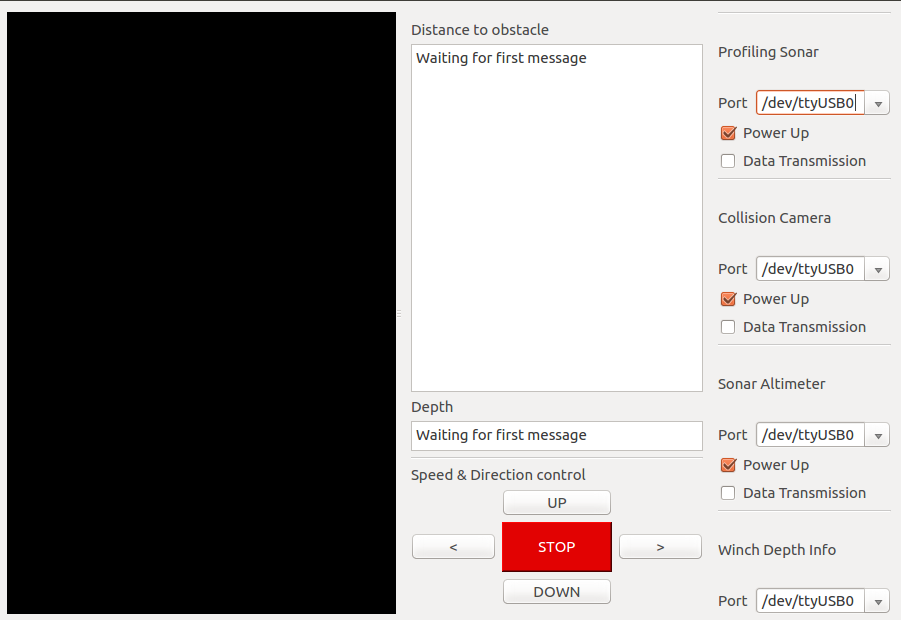
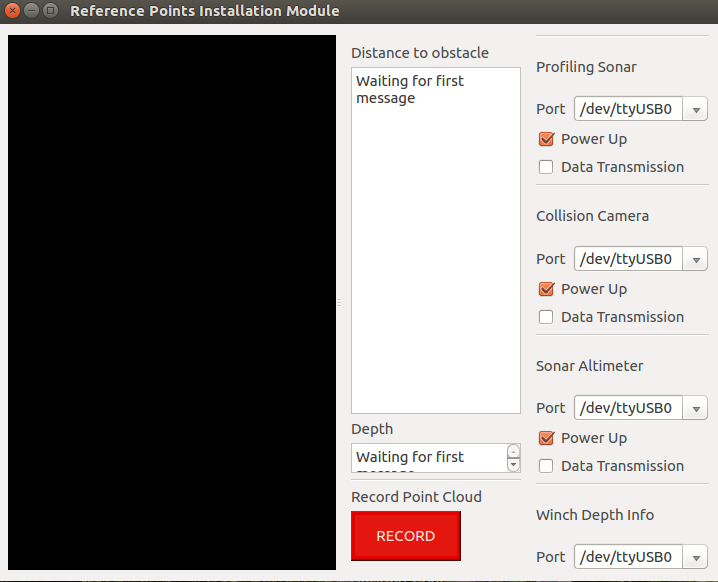
added record button documentation

diff --git a/searchindex.js b/searchindex.js
@@ -1,1 +1,1 @@
-Search.setIndex({docnames:["GUI_Documentation","index"],envversion:52,filenames:["GUI_Documentation.rst","index.rst"],objects:{"":{rst2pdf:[1,3,0,"-"]},"rpim.Joystick_thread":{is_locked:[0,1,1,""],mutex:[0,1,1,""],run:[0,2,1,""],signal:[0,1,1,""]},"rpim.ParameterServer_Params":{profiler_client:[0,1,1,""],run:[0,2,1,""],valeport_altimeter_client:[0,1,1,""]},"rpim.SDS_Params":{parse_params:[0,2,1,""],send:[0,2,1,""]},"rpim.Window":{AltimeterPowerCheckbox:[0,2,1,""],CameraPowerCheckbox:[0,2,1,""],ComboAltimeter_Port_Activated:[0,2,1,""],ComboAltimeter_Pow_Activated:[0,2,1,""],ComboBaudActivated:[0,2,1,""],ComboCam_Pow_Activated:[0,2,1,""],ComboProfiler_Port_Activated:[0,2,1,""],ComboProfiler_Pow_Activated:[0,2,1,""],ProfilerPowerCheckbox:[0,2,1,""],btnDOWN:[0,1,1,""],btnDOWN_clicked:[0,2,1,""],btnDOWNpcas:[0,1,1,""],btnLEFT:[0,1,1,""],btnLEFT_clicked:[0,2,1,""],btnLEFTpcas:[0,1,1,""],btnRGT:[0,1,1,""],btnRGT_clicked:[0,2,1,""],btnRGTpcas:[0,1,1,""],btnUP:[0,1,1,""],btnUP_clicked:[0,2,1,""],btnUPpcas:[0,1,1,""],guimode:[0,1,1,""],imgwin:[0,1,1,""],initUI:[0,2,1,""],jb:[0,1,1,""],joystick_changed:[0,2,1,""],jthread:[0,1,1,""],lblgui:[0,1,1,""],lblnav:[0,1,1,""],lblnavpcas:[0,1,1,""],navmode:[0,1,1,""],pcas:[0,1,1,""],update_ROV_image:[0,2,1,""],update_collisioncam_image:[0,2,1,""],update_joystick:[0,2,1,""],update_string:[0,2,1,""],win:[0,1,1,""]},"rpim.altimeter_subscriber":{altimeter_callback:[0,2,1,""],subscribe:[0,2,1,""]},"rpim.image_converter":{callback:[0,2,1,""],cv_image:[0,1,1,""],image_sub:[0,1,1,""],newcameraimage:[0,1,1,""],subscribe:[0,2,1,""]},rpim:{Joystick_thread:[0,0,1,""],ParameterServer_Params:[0,0,1,""],SDS_Params:[0,0,1,""],Window:[0,0,1,""],altimeter_subscriber:[0,0,1,""],image_converter:[0,0,1,""]}},objnames:{"0":["py","class","Python class"],"1":["py","data","Python data"],"2":["py","method","Python method"],"3":["py","module","Python module"]},objtypes:{"0":"py:class","1":"py:data","2":"py:method","3":"py:module"},terms:{"421c365bd9ff1f717815a3895523baeeb01fa116":0,"case":0,"class":1,"default":0,"final":0,"float":[],"function":0,"import":0,"new":0,"return":0,"switch":1,"try":0,"while":0,And:0,For:0,ROS:1,SDS:0,The:[],Then:0,There:0,With:0,abl:0,about:0,accept:0,access:0,accomplish:0,account:0,activ:0,add:[],added:0,addit:0,addition:[],additionn:0,adv:0,against:0,all:0,allow:0,also:0,altern:0,although:0,altimet:1,altimeter_callback:0,altimeter_subscrib:0,altimeterpowercheckbox:0,anti:0,anticollis:0,apart:0,appear:0,apt:0,area:[],arg:[],argument:0,armhf:[],arriv:0,aspect:0,associ:[],atribut:0,attribut:0,automat:0,autonom:0,auv:0,avail:0,avoid:0,axi:0,back:0,base0:0,bash:0,bashrc:0,basic:0,baud:[],baudrat:0,baudtxt:0,becaus:0,beed:0,been:0,befor:0,being:0,below:0,between:0,binari:0,bind:0,bitstr:0,bluerov2:0,bluerov_ros_playground:0,board:0,both:0,bowtech:0,box:0,btndown:0,btndown_click:0,btndownpca:0,btnleft:0,btnleft_click:0,btnleftpca:0,btnrgt:0,btnrgt_click:0,btnrgtpca:0,btnup:0,btnup_click:0,btnuppca:0,build:[],built:0,button:1,call:0,callback:0,camera:0,camerapowercheckbox:0,can:0,cannot:0,capabl:[],catkin:0,catkin_mak:0,catkin_w:0,cctv:0,certain:0,chang:0,channel:0,checkbox:0,checkout:[],choos:0,click:0,client:0,clockwis:0,clone:0,cloud:0,code:1,collect:0,collis:0,color:[],com:0,combo:0,comboaltimeter_data_activ:[],comboaltimeter_port_activ:0,comboaltimeter_pow_activ:0,combobaudactiv:0,combocam_pow_activ:0,comboprofiler_data_activ:[],comboprofiler_port_activ:0,comboprofiler_pow_activ:0,come:0,command:0,commun:0,compil:0,compon:0,comput:1,concurr:0,configur:1,connect:0,contain:0,content:1,control:0,conveni:0,convers:0,convert:0,coordin:[],core:0,correct:0,creat:0,current:[],cv_bridg:0,cv_imag:0,cvbridg:0,data:1,datainput:[],datastr:[],date:0,deb:0,debian:0,defin:0,definit:1,depend:1,deploy:0,depth:0,design:0,desktop:0,detail:0,determin:0,dev:0,devel:0,develop:0,devic:1,differ:0,dinam:0,direct:0,directori:0,disabl:0,displai:1,distanc:0,distribut:0,doe:1,doesn:0,dof:0,doing:0,don:0,done:0,down:0,download:[],draw:[],drawn:0,driver:0,dure:0,dynam:1,each:0,easi:0,easier:0,easili:0,echo:0,edu:0,element:0,embed:0,emit:0,enabl:0,enter:0,environ:[],essenti:0,etc:0,event:[],everi:0,everytim:0,exampl:0,execut:0,experi:0,explan:1,extern:0,first:0,fixat:0,folder:0,follow:0,foo:[],form:0,format:0,frame:0,freeglut3:0,freez:0,frequent:0,from:0,fron:0,front:0,fuction:[],full:0,funcion:0,gener:0,geo:0,get:0,git:0,github:0,glscatterplotitem:0,glviewwidget:0,graphic:0,graphicslayoutwidget:0,gscam:0,gstreamer0:0,gstreamer:0,guid:0,guimod:0,handl:0,hardwar:0,has:0,have:0,here:0,hkp:0,http:0,imag:1,image_convert:0,image_sub:0,imgtop:0,imgwin:0,imutil:0,includ:0,index:[0,1],indic:0,info:0,inform:1,ing:[],inherit:0,init:0,initi:[],initui:0,input:0,inspect:[],instal:1,instanc:0,instruct:0,intefac:0,integr:1,interfac:0,introduct:1,involv:0,is_lock:0,issu:0,its:0,joystick:1,joystick_chang:0,joystick_thread:0,jthread:0,just:0,keyserv:0,kinet:1,kwd:[],label:0,last:0,latest:0,launch:1,lblgui:0,lblnav:0,lblnavpca:0,left:0,libasound2:0,libavcodec:0,libavformat:0,libavutil:0,libdrm:0,libgl1:0,libglu1:0,libgstream:0,libgstreamer0:0,librari:0,libraw1394:0,libswscal:0,libudev:0,libxmu:0,libxxf86vm:0,like:0,line:0,lsb_releas:0,main:0,make:0,manag:0,mani:0,manoeuvr:0,matplotlib:0,matrix:0,meant:0,measur:0,mention:0,mesa:0,mesaru:[],messag:0,method:1,miss:0,mit:0,mkdir:0,mode:0,modul:1,modular:0,monitor:0,more:0,mous:[],mousepresev:[],mousepressev:[],move:0,multivers:0,must:0,mutex:0,myglview:0,name:0,navig:1,navmod:0,necessari:0,need:0,net:0,never:0,newcameraimag:0,newpcsign:[],newscatt:[],newstr:[],none:[],normal:0,normalis:[],note:0,notic:0,notifi:0,now:0,nowadai:[],numpi:0,oalvarez:[],object:[],obstabl:0,obstacl:0,obtain:0,off:0,olayasturia:0,one:0,onli:0,onlin:0,open:0,opencv:0,oper:0,opt:0,optim:0,order:0,org:0,origin:[],other:0,over:0,overun:0,overwrit:[],overwriten:[],own:0,packag:[],page:1,paintgl:[],param:0,paramet:1,parameterserver_param:0,parent:[],pars:0,parse_param:0,pass:0,path:[],patrickelectr:0,pca:[],percept:0,personalis:[],pgp:0,physic:0,pictur:0,pip:0,place:0,plaintext:0,pleas:0,plot:[],plugin:0,point:[],pointcloud:[],pointcloud_pc:[],pool:0,port:0,pose:1,pose_callback:[],pose_subscrib:[],pose_world_fram:[],posit:0,power:0,press:0,previou:0,previous:0,proceed:0,process:1,profil:1,profiler_cli:0,profilerpowercheckbox:0,profilingsonar_pc:[],project:0,provid:0,ps_callback:[],publish:0,pyqt:0,pyqtgraph:0,pyseri:0,python:0,qt4:0,qtgui:0,qthread:0,qwidget:0,raspberri:[],read:0,readabl:0,readi:0,real:0,receiv:0,recommend:0,reconfigur:0,recv:0,refer:[],referenc:0,refresh:[],region:[],relat:0,render:[],requir:0,requisit:0,resiz:0,restrict:0,result:[],right:0,robot:0,ros:0,rosdep:[],rosinstal:0,roslaunch:0,rotat:0,rov:[],rpim:0,rqt:0,run:0,rviz:0,same:0,save:0,scan:0,scatter:[],scene:0,scipi:0,screen:0,script:[],sds_param:0,search:1,sec:0,second:0,see:0,seen:0,select:0,send:0,sensor:0,sensor_msg:0,sent:0,separ:0,seri:0,serial:1,server:0,session:0,setup:[],shaft:0,shell:0,should:0,show:0,shown:0,signal1:0,signal2:[],signal:0,similar:0,simul:0,sinc:0,sincl:0,sks:0,slot:0,softwar:0,some:0,sonar:1,sourc:[],special:1,src:0,stamp:0,stams_gui:0,start:0,state:0,step:0,store:0,string:0,structur:0,sub:0,subfold:0,submodul:0,subscrib:0,substitut:0,substrib:0,sudo:0,suppli:0,sure:0,system:0,tab:[],tabl:0,task:0,teleoper:0,termin:0,text:0,than:[],thei:0,them:0,thi:0,those:0,thread:0,three:0,through:0,thruster:0,thrusther:0,thu:0,time:0,tmux:0,tool:0,topic:0,trajectori:0,translat:0,transmiss:0,transmit:0,tree:0,tritech:0,tritech_profil:0,ttyusb1:0,tutori:1,two:0,type:0,ubuntu:[],uc3m:[],udo:[],ultrason:[],understand:1,underwat:0,univers:0,unloc:0,unselect:0,updat:0,update_collisioncam_imag:0,update_joystick:0,update_pose_plot:[],update_ps_pointcloud:[],update_rov_imag:0,update_str:0,use:0,used:0,useful:0,user:0,using:0,uwsim:0,valeport:1,valeport_altimet:0,valeport_altimeter_cli:0,valiabl:0,valu:0,vari:[],variabl:0,variou:0,veloc:0,veri:0,via:0,viewer:[],visit:0,visual:0,wall:0,want:0,websit:0,what:1,when:0,where:0,which:1,whinch:0,widget:0,wiki:0,win:0,winch:0,window:1,wirelin:0,work:0,workspac:[],would:0,writ:[],write:0,wstool:0,yet:0,you:0,your:1},titles:["1. Introduction","Welcome to STAMS GUI\u2019s documentation!"],titleterms:{"class":0,"switch":0,ROS:0,The:0,altimet:0,build:0,button:0,code:0,comput:0,configur:0,data:0,definit:0,depend:0,devic:0,displai:0,document:1,doe:0,download:0,dynam:0,environ:0,explan:0,gui:[0,1],imag:0,indic:1,inform:0,initi:0,inspect:0,instal:0,integr:0,introduct:0,joystick:0,kei:0,kinet:0,launch:0,list:0,method:0,modul:0,navig:0,note:[],packag:0,paramet:0,pca:0,point:0,pose:0,prepar:0,process:0,profil:0,python:[],refer:0,repositori:0,rosdep:0,rov:0,serial:0,set:0,setup:0,sonar:0,sourc:0,special:0,stam:[0,1],tab:0,tabl:1,tutori:0,ubuntu:0,ultrason:0,understand:0,valeport:0,welcom:1,what:0,which:0,window:0,work:[],workspac:0,your:0}})
+Search.setIndex({docnames:["GUI_Documentation","index"],envversion:52,filenames:["GUI_Documentation.rst","index.rst"],objects:{"":{rst2pdf:[1,3,0,"-"]},"rpim.Joystick_thread":{is_locked:[0,1,1,""],mutex:[0,1,1,""],run:[0,2,1,""],signal:[0,1,1,""]},"rpim.ParameterServer_Params":{profiler_client:[0,1,1,""],run:[0,2,1,""],valeport_altimeter_client:[0,1,1,""]},"rpim.SDS_Params":{parse_params:[0,2,1,""],send:[0,2,1,""]},"rpim.Window":{AltimeterPowerCheckbox:[0,2,1,""],CameraPowerCheckbox:[0,2,1,""],ComboAltimeter_Port_Activated:[0,2,1,""],ComboAltimeter_Pow_Activated:[0,2,1,""],ComboBaudActivated:[0,2,1,""],ComboCam_Pow_Activated:[0,2,1,""],ComboProfiler_Port_Activated:[0,2,1,""],ComboProfiler_Pow_Activated:[0,2,1,""],ProfilerPowerCheckbox:[0,2,1,""],btnDOWN:[0,1,1,""],btnDOWN_clicked:[0,2,1,""],btnDOWNpcas:[0,1,1,""],btnLEFT:[0,1,1,""],btnLEFT_clicked:[0,2,1,""],btnLEFTpcas:[0,1,1,""],btnRGT:[0,1,1,""],btnRGT_clicked:[0,2,1,""],btnRGTpcas:[0,1,1,""],btnUP:[0,1,1,""],btnUP_clicked:[0,2,1,""],btnUPpcas:[0,1,1,""],guimode:[0,1,1,""],imgwin:[0,1,1,""],initUI:[0,2,1,""],jb:[0,1,1,""],joystick_changed:[0,2,1,""],jthread:[0,1,1,""],lblgui:[0,1,1,""],lblnav:[0,1,1,""],lblnavpcas:[0,1,1,""],navmode:[0,1,1,""],pcas:[0,1,1,""],update_ROV_image:[0,2,1,""],update_collisioncam_image:[0,2,1,""],update_joystick:[0,2,1,""],update_string:[0,2,1,""],win:[0,1,1,""]},"rpim.altimeter_subscriber":{altimeter_callback:[0,2,1,""],subscribe:[0,2,1,""]},"rpim.image_converter":{callback:[0,2,1,""],cv_image:[0,1,1,""],image_sub:[0,1,1,""],newcameraimage:[0,1,1,""],subscribe:[0,2,1,""]},rpim:{Joystick_thread:[0,0,1,""],ParameterServer_Params:[0,0,1,""],SDS_Params:[0,0,1,""],Window:[0,0,1,""],altimeter_subscriber:[0,0,1,""],image_converter:[0,0,1,""]}},objnames:{"0":["py","class","Python class"],"1":["py","data","Python data"],"2":["py","method","Python method"],"3":["py","module","Python module"]},objtypes:{"0":"py:class","1":"py:data","2":"py:method","3":"py:module"},terms:{"421c365bd9ff1f717815a3895523baeeb01fa116":0,"case":0,"class":1,"default":0,"final":0,"float":[],"function":0,"import":0,"new":0,"return":0,"switch":1,"try":0,"while":0,And:0,For:0,NOT:0,ROS:1,SDS:0,The:[],Then:0,There:0,With:0,abl:0,about:0,accept:0,access:0,accomplish:0,accord:0,account:0,activ:0,add:[],added:0,addit:0,addition:[],additionn:0,adv:0,after:0,against:0,all:0,allow:0,also:0,altern:0,although:0,altimet:1,altimeter_callback:0,altimeter_subscrib:0,altimeterpowercheckbox:0,anti:0,anticollis:0,apart:0,appear:0,apt:0,area:[],arg:[],argument:0,armhf:[],arriv:0,aspect:0,associ:[],atribut:0,attribut:0,automat:0,autonom:0,auv:0,avail:0,avoid:[],axi:0,back:0,base0:0,bash:0,bashrc:0,basic:0,baud:[],baudrat:0,baudtxt:0,becaus:0,beed:0,been:0,befor:0,being:0,below:0,between:0,binari:0,bind:0,bitstr:0,bluerov2:0,bluerov_ros_playground:0,board:0,both:0,bowtech:0,box:0,btndown:0,btndown_click:0,btndownpca:0,btnleft:0,btnleft_click:0,btnleftpca:0,btnrgt:0,btnrgt_click:0,btnrgtpca:0,btnup:0,btnup_click:0,btnuppca:0,build:[],built:0,button:1,call:0,callback:0,camera:[],camerapowercheckbox:0,can:0,cannot:0,capabl:0,catkin:0,catkin_mak:0,catkin_w:0,cctv:0,center:[],certain:0,chang:0,channel:0,checkbox:0,checkout:[],choos:0,click:0,client:0,clockwis:0,clone:0,cloud:0,cloudcompar:[],cloudcompare_:0,code:1,collect:0,collis:[],color:[],com:0,combo:0,comboaltimeter_data_activ:[],comboaltimeter_port_activ:0,comboaltimeter_pow_activ:0,combobaudactiv:0,combocam_pow_activ:0,comboprofiler_data_activ:[],comboprofiler_port_activ:0,comboprofiler_pow_activ:0,come:0,command:0,commun:0,compil:0,compon:0,comput:1,concurr:0,configur:1,connect:0,contain:0,content:1,control:0,conveni:0,convers:0,convert:0,coordin:[],core:0,correct:0,creat:0,current:0,cv_bridg:0,cv_imag:0,cvbridg:0,danielgm:[],data:1,datainput:[],datastr:[],date:0,deb:0,debian:0,defin:0,definit:1,depend:1,deploy:0,depth:0,design:0,desktop:0,detail:0,determin:0,dev:0,devel:0,develop:0,devic:1,differ:0,dinam:0,direct:0,directori:0,disabl:0,displai:1,displayin:0,distanc:0,distribut:0,doe:1,doesn:0,dof:0,doing:0,don:0,done:0,down:0,download:[],draw:[],drawn:0,driver:0,dure:0,dynam:1,each:0,easi:0,easier:0,easili:0,echo:0,edu:0,element:0,embed:0,emit:0,enabl:0,enter:0,environ:[],essenti:0,etc:0,event:[],everi:0,everytim:0,exampl:0,execut:0,experi:0,explan:1,extern:0,file:0,first:0,fixat:0,folder:0,follow:0,foo:[],form:0,format:0,frame:0,freeglut3:0,freez:0,frequent:0,from:0,fron:0,front:0,fuction:[],full:0,funcion:0,gener:0,geo:0,get:0,git:0,github:0,glscatterplotitem:0,glviewwidget:0,graphic:0,graphicslayoutwidget:0,gscam:0,gstreamer0:0,gstreamer:0,guid:0,guimod:0,handl:0,hardwar:0,has:0,have:0,here:0,hkp:0,http:0,imag:1,image_convert:0,image_sub:0,imgtop:0,imgwin:0,implement:0,imutil:0,includ:0,index:[0,1],indic:0,info:0,inform:1,ing:[],inherit:0,init:0,initi:[],initui:0,input:0,inspect:[],instal:1,instanc:0,instruct:0,intefac:0,integr:1,interfac:0,introduct:1,involv:0,is_lock:0,issu:0,its:0,joystick:1,joystick_chang:0,joystick_thread:0,jthread:0,just:0,keyserv:0,kinet:1,kwd:[],label:0,last:0,latest:0,latter:0,launch:1,lblgui:0,lblnav:0,lblnavpca:0,left:0,libasound2:0,libavcodec:0,libavformat:0,libavutil:0,libdrm:0,libgl1:0,libglu1:0,libgstream:0,libgstreamer0:0,librari:0,libraw1394:0,libswscal:0,libudev:0,libxmu:0,libxxf86vm:0,like:0,line:0,lsb_releas:0,main:0,make:0,manag:0,mani:0,manoeuvr:0,matplotlib:0,matrix:0,mean:0,meant:0,measur:0,mention:0,mesa:0,mesaru:[],messag:0,method:1,miss:0,mit:0,mkdir:0,mode:0,modul:1,modular:0,monitor:0,more:0,mous:[],mousepresev:[],mousepressev:[],move:0,multivers:0,must:0,mutex:0,myglview:0,name:0,navig:1,navmod:0,necessari:0,need:0,net:0,never:0,newcameraimag:0,newpcsign:[],newscatt:[],newstr:[],none:[],normal:0,normalis:[],note:0,notic:0,notifi:0,now:0,nowadai:[],numpi:0,oalvarez:[],object:[],obstabl:0,obstacl:0,obtain:0,off:0,olayasturia:0,one:0,onli:0,onlin:0,open:0,opencv:0,oper:0,opt:0,optim:0,order:0,org:0,origin:[],other:0,over:0,overun:0,overwrit:[],overwriten:[],own:0,packag:[],page:1,paintgl:[],param:0,paramet:1,parameterserver_param:0,parent:[],pars:0,parse_param:0,pass:0,path:[],patrickelectr:0,pca:[],percept:0,personalis:[],pgp:0,physic:0,pictur:0,pip:0,place:0,plaintext:0,pleas:0,plot:[],plugin:0,ply:0,point:[],pointcloud:[],pointcloud_pc:[],pool:0,port:0,pose:1,pose_callback:[],pose_subscrib:[],pose_world_fram:[],posit:0,power:0,press:0,previou:0,previous:0,proceed:0,process:1,profil:1,profiler_cli:0,profilerpowercheckbox:0,profilingsonar_pc:[],project:0,provid:0,ps_callback:[],publish:0,push:0,pyqt:0,pyqtgraph:0,pyseri:0,python:0,qt4:0,qtgui:0,qthread:0,qwidget:0,raspberri:[],read:0,readabl:0,readi:0,real:0,receiv:0,recommend:0,reconfigur:0,recv:0,refer:[],referenc:0,refresh:[],region:[],relat:0,render:[],request:0,requir:0,requisit:0,resiz:0,restrict:0,result:[],right:0,robot:0,ros:0,rosdep:[],rosinstal:0,roslaunch:0,rotat:0,rov:[],rpim:0,rqt:0,run:0,rviz:0,same:0,save:0,scan:0,scatter:[],scene:0,scipi:0,screen:0,script:[],sds_param:0,search:1,sec:0,second:0,see:0,seen:0,select:0,send:0,sensor:0,sensor_msg:0,sent:0,separ:0,seri:0,serial:1,server:0,session:0,setup:[],shaft:0,shell:0,should:0,show:0,shown:0,signal1:0,signal2:[],signal:0,similar:0,simul:0,sinc:0,sincl:0,sks:0,slot:0,softwar:0,some:0,sonar:1,sourc:[],special:1,src:0,stamp:0,stams_gui:0,start:0,state:0,step:0,stop:0,store:0,string:0,structur:0,sub:0,subfold:0,submodul:0,subscrib:0,substitut:0,substrib:0,sudo:0,suppli:0,sure:0,system:0,tab:[],tabl:0,task:0,teleoper:0,termin:0,text:0,than:[],thei:0,them:0,thi:0,those:0,thread:0,three:0,through:0,thruster:0,thrusther:0,thu:0,time:0,tmux:0,tool:0,topic:0,trajectori:0,translat:0,transmiss:0,transmit:0,tree:0,tritech:0,tritech_profil:0,ttyusb1:0,tutori:1,two:0,type:0,ubuntu:[],uc3m:[],udo:[],ultrason:[],understand:1,underwat:0,univers:0,unloc:0,unselect:0,updat:0,update_collisioncam_imag:0,update_joystick:0,update_pose_plot:[],update_ps_pointcloud:[],update_rov_imag:0,update_str:0,upgrad:0,use:0,used:0,useful:0,user:0,using:0,uwsim:0,valeport:1,valeport_altimet:0,valeport_altimeter_cli:0,valiabl:0,valu:0,vari:[],variabl:0,variou:0,veloc:0,veri:0,via:0,viewer:[],visit:0,visual:0,wait:0,wall:0,want:0,websit:0,what:1,when:0,where:0,which:1,whinch:0,widget:0,wiki:0,win:0,winch:0,window:1,wirelin:0,work:0,workspac:[],would:0,writ:[],write:0,wstool:0,www:[],yet:0,you:0,your:1,yyyi:0},titles:["1. Introduction","Welcome to STAMS GUI\u2019s documentation!"],titleterms:{"class":0,"switch":0,ROS:0,The:0,altimet:0,avoid:0,build:0,button:0,camera:0,code:0,collis:0,comput:0,configur:0,data:0,definit:0,depend:0,devic:0,displai:0,document:1,doe:0,download:0,dynam:0,environ:0,explan:0,gui:[0,1],imag:0,indic:1,inform:0,initi:0,inspect:0,instal:0,integr:0,introduct:0,joystick:0,kei:0,kinet:0,launch:0,list:0,method:0,modul:0,navig:0,note:[],packag:0,paramet:0,pca:0,point:0,pose:0,prepar:0,process:0,profil:0,python:[],record:0,refer:0,repositori:0,rosdep:0,rov:0,serial:0,set:0,setup:0,sonar:0,sourc:0,special:0,stam:[0,1],tab:0,tabl:1,tutori:0,ubuntu:0,ultrason:0,understand:0,valeport:0,welcom:1,what:0,which:0,window:0,work:[],workspac:0,your:0}})

diff --git a/GUI_Documentation.html b/GUI_Documentation.html
@@ -119,7 +119,13 @@
 <li class="toctree-l2"><a class="reference internal" href="#launching-the-gui">2.4. Launching the GUI</a></li>
 <li class="toctree-l2"><a class="reference internal" href="#understanding-the-gui">2.5. Understanding the GUI</a><ul>
 <li class="toctree-l3"><a class="reference internal" href="#rov-tab">2.5.1. ROV tab</a></li>
-<li class="toctree-l3"><a class="reference internal" href="#pcas-tab">2.5.2. PCAS tab</a></li>
+<li class="toctree-l3"><a class="reference internal" href="#pcas-tab">2.5.2. PCAS tab</a><ul>
+<li class="toctree-l4"><a class="reference internal" href="#profiling-sonar">2.5.2.1. Profiling Sonar</a></li>
+<li class="toctree-l4"><a class="reference internal" href="#sonar-altimeter">2.5.2.2. Sonar Altimeter</a></li>
+<li class="toctree-l4"><a class="reference internal" href="#collision-avoidance-camera">2.5.2.3. Collision Avoidance Camera</a></li>
+<li class="toctree-l4"><a class="reference internal" href="#recording-profiling-sonar-data">2.5.2.4. Recording Profiling Sonar data</a></li>
+</ul>
+</li>
 </ul>
 </li>
 </ul>
@@ -349,6 +355,7 @@ For example, rosinstall is a frequently used command-line tool that enables you 
 Before proceeding to the installation of the STAMS packages, we will install those libraries.</p>
 <p>First of all, install pip, a tool for easy installing python packages:</p>
 <div class="highlight-default"><div class="highlight"><pre><span class="n">sudo</span> <span class="n">apt</span> <span class="n">install</span> <span class="n">python</span><span class="o">-</span><span class="n">pip</span>
+<span class="n">sudo</span> <span class="n">pip</span> <span class="n">install</span> <span class="o">--</span><span class="n">upgrade</span> <span class="n">pip</span>
 </pre></div>
 </div>
 <p>Numpy, Scipy and Matplotlib libraries:</p>
@@ -430,7 +437,7 @@ Before proceeding to the installation of the STAMS packages, we will install tho
 </pre></div>
 </div>
 <p>It also needs a driver for the BlueROV2 teleoperation:</p>
-<div class="highlight-default"><div class="highlight"><pre><span class="n">https</span><span class="p">:</span><span class="o">//</span><span class="n">github</span><span class="o">.</span><span class="n">com</span><span class="o">/</span><span class="n">patrickelectric</span><span class="o">/</span><span class="n">bluerov_ros_playground</span><span class="o">.</span><span class="n">git</span>
+<div class="highlight-default"><div class="highlight"><pre><span class="n">git</span> <span class="n">clone</span> <span class="n">https</span><span class="p">:</span><span class="o">//</span><span class="n">github</span><span class="o">.</span><span class="n">com</span><span class="o">/</span><span class="n">patrickelectric</span><span class="o">/</span><span class="n">bluerov_ros_playground</span><span class="o">.</span><span class="n">git</span>
 </pre></div>
 </div>
 <p>Now you have the ROS package with the GUI in your source directory. Go back to your catkin workspace, and source your environment:</p>
@@ -509,13 +516,15 @@ There is also a Navigation Mode selection: teleoperated or Autonomous.</p>
 <blockquote>
 <div><ul class="simple">
 <li>The image from the collision avoidance camera (if connected).</li>
-<li>Distance to obstable read from the collision avoidance sonar, and depth information read from the whinch.</li>
+<li>Distance to obstable read from the collision avoidance sonar, depth information read from the whinch, and a record button for the Profiling Sonar data.</li>
 </ul>
 </div></blockquote>
 <p>On the right of the User Interface, different configuration parameters appear, having in account that there is a serial connection through a sincle wireline, and thus the Profiling Sonar and the Altimeter cannot send information concurrently.</p>
 <div class="figure">
 <a class="reference internal image-reference" href="_images/PS.png"><img alt="Current aspect of the UI" src="_images/PS.png" style="width: 30%;" /></a>
 </div>
+<div class="section" id="profiling-sonar">
+<h4>2.5.2.1. Profiling Sonar<a class="headerlink" href="#profiling-sonar" title="Permalink to this headline">¶</a></h4>
 <p>The Profiling Sonar has the following configuration parameters (the default values should work):</p>
 <blockquote>
 <div><ul class="simple">
@@ -529,6 +538,9 @@ Selecting the “Data Transmission” checkbox will make the Profiling Sonar tra
 <div class="figure">
 <a class="reference internal image-reference" href="_images/altimeter.png"><img alt="Current aspect of the UI" src="_images/altimeter.png" style="width: 30%;" /></a>
 </div>
+</div>
+<div class="section" id="sonar-altimeter">
+<h4>2.5.2.2. Sonar Altimeter<a class="headerlink" href="#sonar-altimeter" title="Permalink to this headline">¶</a></h4>
 <p>The Sonar Altimeter parameters are similar to the Profiling Sonar’s:</p>
 <blockquote>
 <div><ul class="simple">
@@ -542,6 +554,9 @@ Selecting the “Data Transmission” checkbox will make the Altimeter transmit 
 <div class="figure">
 <a class="reference internal image-reference" href="_images/camera.png"><img alt="Current aspect of the UI" src="_images/camera.png" style="width: 30%;" /></a>
 </div>
+</div>
+<div class="section" id="collision-avoidance-camera">
+<h4>2.5.2.3. Collision Avoidance Camera<a class="headerlink" href="#collision-avoidance-camera" title="Permalink to this headline">¶</a></h4>
 <p>The Collision Avoidance Camera has the following configuration parameters:</p>
 <blockquote>
 <div><ul class="simple">
@@ -558,6 +573,22 @@ Selecting the “Data Transmission” checkbox will make the Altimeter transmit 
 It only requires to set the port, which never will be the same as that of the profiler and the altimeter.
 Normally, it will be /dev/ttyUSB1</p>
 </div>
+<div class="section" id="recording-profiling-sonar-data">
+<h4>2.5.2.4. Recording Profiling Sonar data<a class="headerlink" href="#recording-profiling-sonar-data" title="Permalink to this headline">¶</a></h4>
+<p>Since it is required from the project not only displayin the data during the deployment, but also saving it for latter visualization, a Record Point Cloud button has been implemented.</p>
+<div class="figure" id="id3">
+<a class="reference internal image-reference" href="_images/recordbutton.png"><img alt="Current aspect of the UI" src="_images/recordbutton.png" style="width: 50%;" /></a>
+<p class="caption"><span class="caption-text">Left: Record button while not recording. Right: record button while recording.</span></p>
+</div>
+<p>This button works as follows:</p>
+<ul class="simple">
+<li>When NOT recording, the “RECORD” text appears in the button. This means that it is waiting for a recording request.</li>
+<li>After pushing the button, the “STOP RECORD” text will appear, which means that it is recording the file and waiting for a stop recording request.</li>
+</ul>
+<p>The file will be saved in .ply format, with the file being named with the current date and time according to the following format: YYYY-MM-DD-HH-MM-SS.ply</p>
+<p>The software recommended to open this files is <a href="#id8"><span class="problematic" id="id9">CloudCompare_</span></a>,which, apart from visualization, provides many processing capabilities.</p>
+</div>
+</div>
 </div>
 </div>
 <div class="section" id="code-explanation">
@@ -570,7 +601,7 @@ and placed in the correct position, and also the buttons are connected with the 
 <h2>3.1. Window Definition<a class="headerlink" href="#window-definition" title="Permalink to this headline">¶</a></h2>
 <p>The main aspect for the GUI development, is creating the window that contains all the controllers and
 visualizers. Each of them needs a callback function that reads the data input or sends the command.</p>
-<div class="figure" id="id3">
+<div class="figure" id="id4">
 <a class="reference internal image-reference" href="_images/gui.png"><img alt="Current aspect of the UI" src="_images/gui.png" style="width: 100%;" /></a>
 <p class="caption"><span class="caption-text">ROV tab of the STAMS’ GUI in simulator mode.</span></p>
 </div>
@@ -892,7 +923,7 @@ required tasks</p>
 <p>The camera data is sent through a ROS topic with the sensor_msgs/Image format, so it is necessary
 to convert it to a matrix format to make it readable from an external module like it is the case
 of the GUI. This is done via Opencv using <code class="docutils literal"><span class="pre">CvBridge</span></code></p>
-<div class="figure align-center" id="id4">
+<div class="figure align-center" id="id5">
 <a class="reference internal image-reference" href="_images/cvbridge.png"><img alt="conversion from ROS Image message to OpenCV matrix" src="_images/cvbridge.png" style="width: 80%;" /></a>
 <p class="caption"><span class="caption-text">conversion from ROS Image message to OpenCV matrix (see <a class="reference external" href="http://wiki.ros.org/cv_bridge/Tutorials/UsingCvBridgeToConvertBetweenROSImagesAndOpenCVImages">ROS wiki)</a>.</span></p>
 </div>
@@ -955,7 +986,7 @@ to cv image using cv_bridge.</p>
 <h2>3.4. Pose information<a class="headerlink" href="#pose-information" title="Permalink to this headline">¶</a></h2>
 <p>The pose information is very important to collect as it is used for stamping of the different
 measurements with the pose info. The pose information comes from the Geo-Referencing Sub-module.</p>
-<div class="figure align-center" id="id5">
+<div class="figure align-center" id="id6">
 <a class="reference internal image-reference" href="_images/pose.png"><img alt="pose" src="_images/pose.png" style="width: 80%;" /></a>
 <p class="caption"><span class="caption-text">Example of pose information used for 3D displaying of the device’s trajectory</span></p>
 </div>
@@ -963,7 +994,7 @@ measurements with the pose info. The pose information comes from the Geo-Referen
 <div class="section" id="gui-joystick-and-navigation-buttons">
 <h2>3.5. GUI Joystick and Navigation Buttons<a class="headerlink" href="#gui-joystick-and-navigation-buttons" title="Permalink to this headline">¶</a></h2>
 <p>Although the AUV is meant to be autonomous or operated with a joystick, an additional joystick has beed added to the GUI for those cases when the AUV needs to be teleoperated but there is not a physical joystick available.</p>
-<div class="figure align-center" id="id6">
+<div class="figure align-center" id="id7">
 <a class="reference internal image-reference" href="_images/joystick.png"><img alt="Joystick" src="_images/joystick.png" style="width: 80%;" /></a>
 <p class="caption"><span class="caption-text">Joystick and buttons from the GUI for teleoperation of the AUV. The joystick allows to move the AUV in front, left and right directions. The UP/DOWN buttons move the AUV up and down in the Z axis. The other two buttons rotate the AUV in anti-clockwise and clockwise directions</span></p>
 </div>
